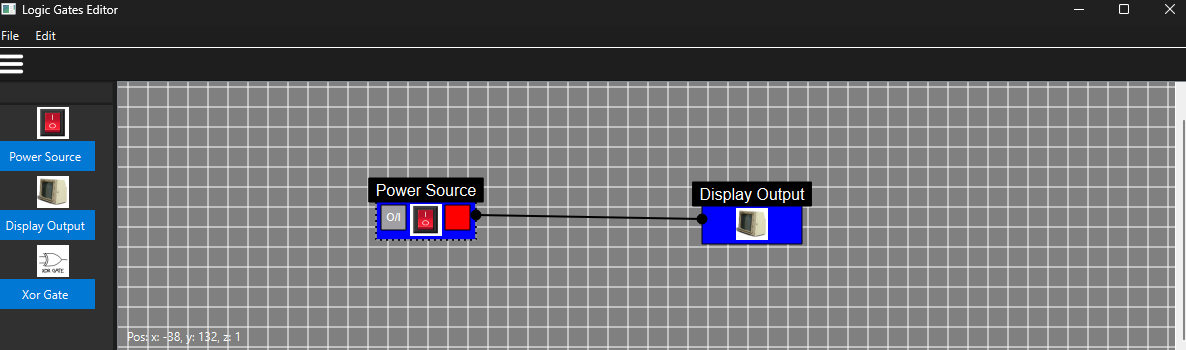
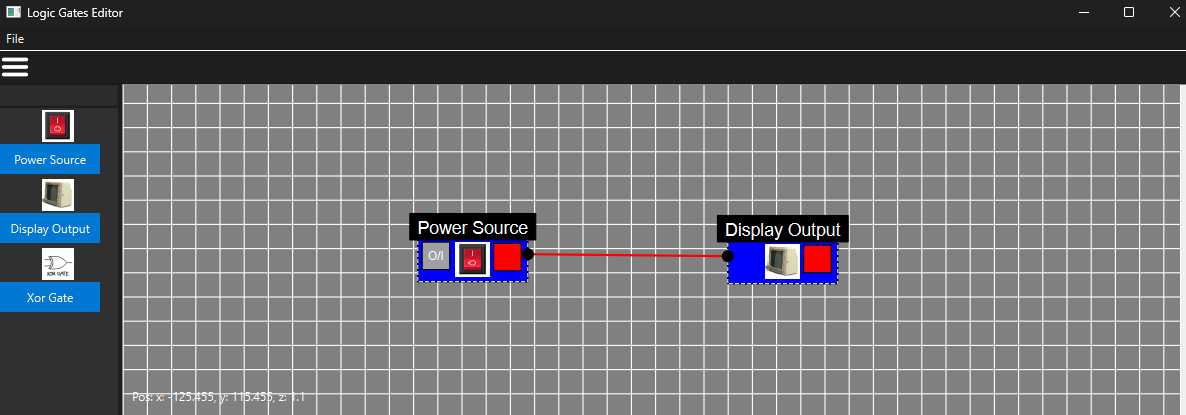
Implement observer with DisplayOutput, calling SetInput in Editor's finalizeConnection function

diff --git a/source/LogicGates/DisplayOutput.cpp b/source/LogicGates/DisplayOutput.cpp
@@ -3,6 +3,7 @@
 //
 
 #include "LogicGates/DisplayOutput.hpp"
+#include "Connection.hpp"
 #include <QCursor>
 
 DisplayOutput::DisplayOutput() : AbstractNode() {
@@ -38,6 +39,11 @@ DisplayOutput::DisplayOutput() : AbstractNode() {
 
     QPixmap pixmap(":/resources/DisplayOutput.png");
     DisplayOutput::setImage(pixmap);
+
+    // Add small green box on the right side
+    rightBox = new QGraphicsRectItem(this);
+    rightBox->setRect(rect().width() - 31, (rect().height() / 2) - 10, 25, 25);
+    rightBox->setBrush(Qt::black);
 }
 
 void DisplayOutput::setNodeName(const QString &name) {
@@ -97,11 +103,41 @@ void DisplayOutput::mouseReleaseEvent(QGraphicsSceneMouseEvent *event) {
 }
 
 State DisplayOutput::GetState() const {
-    return ON; // TODO: Change this later
+    return state_; //
 }
 
 void DisplayOutput::Update(State state) {
-    // do something...
+
+    if (state == DISABLED)
+    {
+        rightBox->setBrush(Qt::black);
+        if (inputPoint->getConnection())
+        {
+            auto conn = inputPoint->getConnection();
+            conn->setColor(Qt::black);
+        }
+    }
+    if (state == OFF)
+    {
+        rightBox->setBrush(Qt::red);
+        if (inputPoint->getConnection())
+        {
+            auto conn = inputPoint->getConnection();
+            conn->setColor(Qt::red);
+        }
+    }
+    if (state == ON)
+    {
+        rightBox->setBrush(Qt::green);
+        if (inputPoint->getConnection())
+        {
+            auto conn = inputPoint->getConnection();
+            conn->setColor(Qt::green);
+        }
+    }
+
+    state_ = state;
+    Notify();
 }
 
 ConnectionPoint* DisplayOutput::getInputPoint() const {
@@ -110,4 +146,10 @@ ConnectionPoint* DisplayOutput::getInputPoint() const {
 
 ConnectionPoint* DisplayOutput::getOutputPoint() const {
     return nullptr;
+}
+
+void DisplayOutput::setInput(AbstractNode *input) {
+    input_ = input;
+    input_->Attach(this);
+    DisplayOutput::Update(input->GetState());
 }

diff --git a/source/Editor.cpp b/source/Editor.cpp
@@ -283,6 +283,7 @@
 #include <QUndoStack>
 #include <QUndoCommand>
 #include "AbstractNode.hpp"
+#include "LogicGates/DisplayOutput.hpp"
 
 Editor::Editor(QWidget *parent) : QGraphicsView(parent), scene(new QGraphicsScene(this)), scaleFactor(1.0), isPanning(false), viewCenter(0, 0), currentConnection(nullptr), startPoint(nullptr), hoveredPoint(nullptr), lastHoveredPoint(nullptr){
     // Create the scene and set it
@@ -544,6 +545,10 @@ void Editor::finalizeConnection(ConnectionPoint *start, ConnectionPoint *end) {
     auto connection = new Connection(start, end, scene);
     start->setConnection(connection);
     end->setConnection(connection);
+    if (auto node = dynamic_cast<DisplayOutput*>(end->getNode()))
+    {
+        node->setInput(start->getNode());
+    }
     connections.push_back(connection);
     qDebug() << "Finalized connection from" << start->toString() << "to" << end->toString();
     // Remove the temporary connection line

diff --git a/include/LogicGates/DisplayOutput.hpp b/include/LogicGates/DisplayOutput.hpp
@@ -20,6 +20,8 @@ public:
     void mouseMoveEvent(QGraphicsSceneMouseEvent *event) override;
     void mouseReleaseEvent(QGraphicsSceneMouseEvent *event) override;
 
+    void setInput(AbstractNode* input);
+
     State GetState() const override;
 
     // IObserver interface methods
@@ -30,7 +32,16 @@ public:
 
 
 protected:
+
+    std::list<IObserver*> connectedNodes_;
+    AbstractNode* input_;
+    State state_ = DISABLED;
+
     ConnectionPoint* inputPoint;
+
+    QGraphicsRectItem* rightBox;
+
+
 
 };
 
